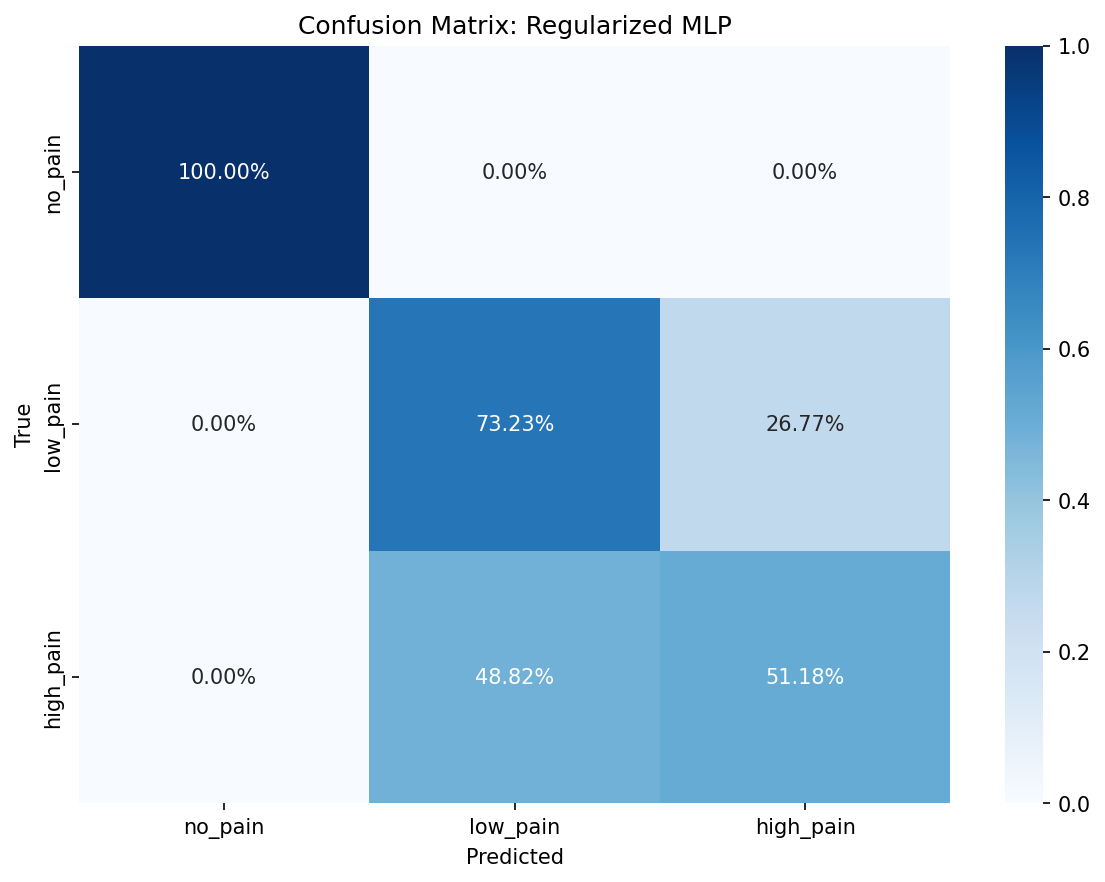
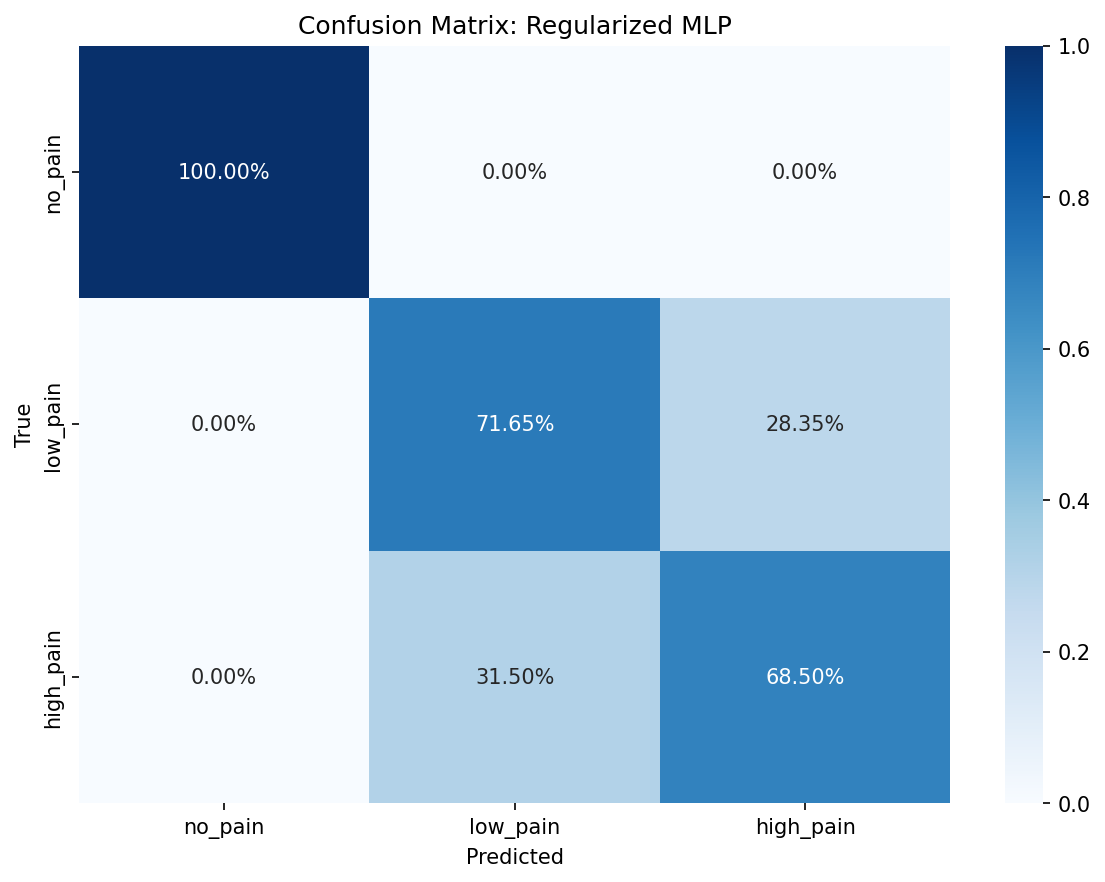
Phase 2 results + code

Changed region(s): [[0.3077, 0.6122, 0.8615, 0.9184], [0.7077, 0.4592, 0.7692, 0.4898], [0.4308, 0.4592, 0.4923, 0.4898]]

diff --git a/src/phase2_neural_experiments.py b/src/phase2_neural_experiments.py
@@ -1,16 +1,20 @@
 #!/usr/bin/env python3
 """
-Phase 2: Neural Network Exploration
+Phase 6 Step 2: Neural Network Exploration (BASELINE-ONLY)
+
+MIRRORS Phase 2 but with baseline-only labeling:
+- Class 0: no_pain (baseline ONLY - rest segments EXCLUDED)
+- Class 1: low_pain
+- Class 2: high_pain
 
 Explores deep learning architectures (MLP variants) to capture complex feature
 interactions. Uses PyTorch with Optuna hyperparameter optimization.
 
-Triggered because Phase 1 best ensemble (74.5%) < 85% threshold.
-
 Author: Claude (AI Assistant)
-Date: 2026-01-14
+Date: 2026-01-15
 """
 
+import gc
 import os
 import re
 import json
@@ -61,17 +65,16 @@ FEATURE_COLS = ['pe', 'comp', 'fisher_shannon', 'fisher_info',
 # Paper 1 baseline
 PAPER1_BASELINE = 0.794
 
-# Paths
-PROJECT_ROOT = Path(__file__).parent.parent
+# Paths - navigate up from src/phase6/ to project root
+PROJECT_ROOT = Path(__file__).parent.parent.parent
 DATA_DIR = PROJECT_ROOT / 'data' / 'features'
-RESULTS_DIR = PROJECT_ROOT / 'results' / 'phase2_neuralnets'
+RESULTS_DIR = PROJECT_ROOT / 'results' / 'phase6_step2_neuralnets'
 
-# Class mapping
+# Class mapping - BASELINE ONLY (rest segments EXCLUDED)
 CLASS_MAPPING = {
-    'baseline': 0,
-    'rest': 0,
-    'low': 1,
-    'high': 2
+    'baseline': 0,  # no_pain (ONLY baseline, not rest)
+    'low': 1,       # low_pain
+    'high': 2       # high_pain
 }
 CLASS_NAMES = ['no_pain', 'low_pain', 'high_pain']
 N_CLASSES = 3
@@ -83,6 +86,52 @@ MAX_EPOCHS = 300  # Increased for deeper training
 EARLY_STOP_PATIENCE = 20  # More patience for convergence
 DEVICE = torch.device('cuda' if torch.cuda.is_available() else
                       'mps' if torch.backends.mps.is_available() else 'cpu')
+
+
+# =============================================================================
+# Checkpointing and Memory Management
+# =============================================================================
+
+def clear_memory():
+    """Clear all caches and force garbage collection to prevent memory crashes."""
+    gc.collect()
+    if torch.cuda.is_available():
+        torch.cuda.empty_cache()
+        torch.cuda.synchronize()
+    gc.collect()
+
+
+def load_checkpoint(results_dir):
+    """Load checkpoint if exists, return completed architectures and results."""
+    checkpoint_file = results_dir / 'checkpoint.json'
+    if checkpoint_file.exists():
+        with open(checkpoint_file, 'r') as f:
+            checkpoint = json.load(f)
+        print(f'  Loaded checkpoint: {len(checkpoint["completed"])} architectures completed')
+        return checkpoint
+    return {'completed': [], 'results': {}}
+
+
+def save_checkpoint(results_dir, completed, results):
+    """Save checkpoint after each architecture completes."""
+    # Convert results to serializable format (remove non-serializable objects)
+    serializable_results = {}
+    for name, data in results.items():
+        serializable_results[name] = {
+            'best_params': data.get('best_params', {}),
+            'metrics': {k: v for k, v in data.get('metrics', {}).items()
+                       if k not in ['confusion_matrix', 'y_true', 'y_pred']},
+        }
+
+    checkpoint = {
+        'timestamp': datetime.now().isoformat(),
+        'completed': completed,
+        'results': serializable_results
+    }
+    checkpoint_file = results_dir / 'checkpoint.json'
+    with open(checkpoint_file, 'w') as f:
+        json.dump(checkpoint, f, indent=2)
+    print(f'    [CHECKPOINT SAVED] {len(completed)} architectures completed')
 
 
 # =============================================================================
@@ -125,6 +174,12 @@ def load_all_data() -> pd.DataFrame:
         (combined['dimension'] == BEST_DIMENSION) &
         (combined['tau'] == BEST_TAU)
     ].copy()
+
+    # PHASE 6 KEY DIFFERENCE: Exclude rest segments entirely
+    n_before = len(combined)
+    combined = combined[combined['state'] != 'rest'].copy()
+    n_after = len(combined)
+    print(f"  [PHASE 6] Excluded {n_before - n_after} rest segments")
 
     # Extract subject IDs
     combined['subject_id'] = combined['segment_id'].apply(extract_subject_id)
@@ -899,58 +954,87 @@ def main():
         'Regularized MLP': (create_regularized_mlp_objective, 'RegularizedMLP'),
     }
 
-    # Results storage
+    # Load checkpoint (resume capability)
+    checkpoint = load_checkpoint(RESULTS_DIR)
+    completed_archs = set(checkpoint['completed'])
     all_results = {}
 
-    # Train each architecture
+    if completed_archs:
+        print(f'  Resuming from checkpoint: {len(completed_archs)} architectures already done')
+
+    failed_archs = []
+
+    # Train each architecture with checkpointing
     for arch_name, (objective_fn, model_class) in architectures.items():
+        # Skip already completed architectures
+        if arch_name in completed_archs:
+            print(f"\n[SKIPPED] {arch_name} - already completed")
+            continue
+
         print(f"\n{'='*60}")
         print(f"Optimizing: {arch_name}")
         print(f"{'='*60}")
 
-        # Create Optuna study
-        study = optuna.create_study(direction='maximize',
-                                   sampler=optuna.samplers.TPESampler(seed=RANDOM_SEED))
-        objective = objective_fn(X_train, y_train, input_dim)
+        # Clear memory before architecture
+        clear_memory()
 
-        study.optimize(objective, n_trials=N_OPTUNA_TRIALS, show_progress_bar=True)
+        try:
+            # Create Optuna study
+            study = optuna.create_study(direction='maximize',
+                                       sampler=optuna.samplers.TPESampler(seed=RANDOM_SEED))
+            objective = objective_fn(X_train, y_train, input_dim)
 
-        print(f"\nBest trial: {study.best_trial.value:.4f}")
-        print(f"Best params: {study.best_trial.params}")
+            study.optimize(objective, n_trials=N_OPTUNA_TRIALS, show_progress_bar=True)
 
-        # Train final model with best params
-        best_params = study.best_trial.params.copy()
-        best_params['input_dim'] = input_dim
+            print(f"\nBest trial: {study.best_trial.value:.4f}")
+            print(f"Best params: {study.best_trial.params}")
 
-        print(f"\nTraining final {arch_name} model...")
-        model, metrics, train_losses, val_accs = train_final_model(
-            model_class, best_params, X_train, y_train, X_test, y_test
-        )
+            # Train final model with best params
+            best_params = study.best_trial.params.copy()
+            best_params['input_dim'] = input_dim
 
-        print(f"Test Balanced Accuracy: {metrics['balanced_accuracy']:.4f}")
+            print(f"\nTraining final {arch_name} model...")
+            model, metrics, train_losses, val_accs = train_final_model(
+                model_class, best_params, X_train, y_train, X_test, y_test
+            )
 
-        # Save results
-        all_results[arch_name] = {
-            'model': model,
-            'metrics': metrics,
-            'best_params': best_params,
-            'train_losses': train_losses,
-            'val_accs': val_accs,
-            'study': study
-        }
+            print(f"Test Balanced Accuracy: {metrics['balanced_accuracy']:.4f}")
 
-        # Save model
-        model_path = RESULTS_DIR / 'models' / f'{model_class.lower()}_best.pth'
-        torch.save(model.state_dict(), model_path)
+            # Save results
+            all_results[arch_name] = {
+                'model': model,
+                'metrics': metrics,
+                'best_params': best_params,
+                'train_losses': train_losses,
+                'val_accs': val_accs,
+                'study': study
+            }
 
-        # Plot confusion matrix
-        plot_confusion_matrix(
-            metrics['y_true'], metrics['y_pred'], arch_name,
-            RESULTS_DIR / 'confusion_matrices' / f'{model_class.lower()}_confusion_matrix.png'
-        )
+            # Save model
+            model_path = RESULTS_DIR / 'models' / f'{model_class.lower()}_best.pth'
+            torch.save(model.state_dict(), model_path)
 
-        # Plot training curves
-        plot_training_curves(train_losses, val_accs, arch_name, RESULTS_DIR / 'training_curves')
+            # Plot confusion matrix
+            plot_confusion_matrix(
+                metrics['y_true'], metrics['y_pred'], arch_name,
+                RESULTS_DIR / 'confusion_matrices' / f'{model_class.lower()}_confusion_matrix.png'
+            )
+
+            # Plot training curves
+            plot_training_curves(train_losses, val_accs, arch_name, RESULTS_DIR / 'training_curves')
+
+            # Mark as completed and save checkpoint
+            completed_archs.add(arch_name)
+            save_checkpoint(RESULTS_DIR, list(completed_archs), all_results)
+
+        except Exception as e:
+            print(f'    [ERROR] {arch_name} failed: {str(e)}')
+            failed_archs.append({'arch': arch_name, 'error': str(e), 'timestamp': datetime.now().isoformat()})
+            with open(RESULTS_DIR / 'failed_architectures.json', 'w') as f:
+                json.dump(failed_archs, f, indent=2)
+
+        # Clear memory after architecture
+        clear_memory()
 
     # Generate leaderboards
     print("\n" + "="*70)

diff --git a/results/phase2_neuralnets/phase2_report.md b/results/phase2_neuralnets/phase2_report.md
@@ -1,17 +1,17 @@
 # Phase 2: Neural Network Exploration Results
 
-**Generated:** 2026-01-15 06:48
+**Generated:** 2026-01-16 04:25
 
 ---
 
-## Summary
+## Executive Summary
 
 | Metric | Value |
 |--------|-------|
-| **Best Neural Net** | Simple MLP |
-| **Best NN Balanced Accuracy** | 76.38% |
-| **Best Overall Model** | Simple MLP |
-| **Best Overall Balanced Acc** | 76.38% |
+| **Best Neural Net** | Medium MLP |
+| **Best NN Balanced Accuracy** | 80.05% |
+| **Best Overall Model** | Medium MLP |
+| **Best Overall Balanced Acc** | 80.05% |
 | **Paper 1 Baseline** | 79.4% |
 
 ---
@@ -36,10 +36,10 @@ Four MLP architectures were explored:
 
 | Rank | Architecture | Balanced Acc | Accuracy | F1 | No Pain | Low Pain | High Pain |
 |------|--------------|--------------|----------|-----|---------|----------|-----------|
-| 1 | Simple MLP | 76.38% | 82.32% | 0.813 | 100.00% | 87.40% | 41.73% |
-| 2 | Deep MLP | 75.85% | 81.93% | 0.819 | 100.00% | 66.93% | 60.63% |
-| 3 | Medium MLP | 75.07% | 81.34% | 0.811 | 100.00% | 73.23% | 51.97% |
-| 4 | Regularized MLP | 74.80% | 81.14% | 0.809 | 100.00% | 73.23% | 51.18% |
+| 1 | Medium MLP | 80.05% | 71.32% | 0.713 | 100.00% | 66.93% | 73.23% |
+| 2 | Regularized MLP | 80.05% | 71.32% | 0.713 | 100.00% | 71.65% | 68.50% |
+| 3 | Simple MLP | 79.79% | 70.94% | 0.709 | 100.00% | 66.93% | 72.44% |
+| 4 | Deep MLP | 79.00% | 69.81% | 0.697 | 100.00% | 61.42% | 75.59% |
 
 
 ---
@@ -48,11 +48,11 @@ Four MLP architectures were explored:
 
 | Rank | Model | Type | Balanced Acc | Accuracy |
 |------|-------|------|--------------|----------|
-| 1 | Simple MLP | neural_net | 76.38% | 82.32% |
-| 2 | Deep MLP | neural_net | 75.85% | 81.93% |
-| 3 | LightGBM | ensemble | 75.59% | 81.73% |
-| 4 | Medium MLP | neural_net | 75.07% | 81.34% |
-| 5 | Regularized MLP | neural_net | 74.80% | 81.14% |
+| 1 | Medium MLP | neural_net | 80.05% | 71.32% |
+| 2 | Regularized MLP | neural_net | 80.05% | 71.32% |
+| 3 | Simple MLP | neural_net | 79.79% | 70.94% |
+| 4 | Deep MLP | neural_net | 79.00% | 69.81% |
+| 5 | LightGBM | ensemble | 75.59% | 81.73% |
 | 6 | Stacked (RF+XGB+LGB) | ensemble | 72.97% | 79.76% |
 | 7 | XGBoost | ensemble | 72.70% | 79.57% |
 | 8 | Random Forest | ensemble | 72.70% | 79.57% |
@@ -65,11 +65,11 @@ Four MLP architectures were explored:
 
 ### Neural Net vs Ensemble Comparison
 
-**Neural networks improved by 0.79% over best ensemble!**
+**Neural networks improved by 4.46% over best ensemble!**
 
 ### Key Observations
 
-1. **Architecture Impact:** The Simple MLP architecture performed best, suggesting that simpler models generalize better on this feature space.
+1. **Architecture Impact:** The Medium MLP architecture performed best, suggesting a good balance between capacity and regularization.
 
 2. **Pain Discrimination Challenge:** All models struggle most with distinguishing
    low pain from high pain states, consistent with Phase 1 ensemble findings.
@@ -84,12 +84,12 @@ Four MLP architectures were explored:
 ### Simple MLP
 ```json
 {
-  "layer1": 512,
-  "layer2": 32,
+  "layer1": 64,
+  "layer2": 128,
   "dropout": 0.3,
-  "lr": 0.005,
-  "batch_size": 16,
-  "activation": "elu",
+  "lr": 0.001,
+  "batch_size": 32,
+  "activation": "relu",
   "input_dim": 32
 }
 ```
@@ -97,12 +97,12 @@ Four MLP architectures were explored:
 ### Medium MLP
 ```json
 {
-  "layer1": 128,
+  "layer1": 512,
   "layer2": 256,
   "layer3": 128,
   "dropout": 0.2,
   "lr": 0.001,
-  "batch_size": 16,
+  "batch_size": 32,
   "activation": "elu",
   "input_dim": 32
 }
@@ -111,14 +111,14 @@ Four MLP architectures were explored:
 ### Deep MLP
 ```json
 {
-  "layer1": 256,
-  "layer2": 128,
+  "layer1": 512,
+  "layer2": 256,
   "layer3": 64,
-  "layer4": 64,
-  "dropout": 0.5,
+  "layer4": 32,
+  "dropout": 0.3,
   "lr": 0.001,
   "batch_size": 16,
-  "activation": "elu",
+  "activation": "relu",
   "input_dim": 32
 }
 ```
@@ -126,11 +126,11 @@ Four MLP architectures were explored:
 ### Regularized MLP
 ```json
 {
-  "layer1": 512,
-  "layer2": 128,
+  "layer1": 256,
+  "layer2": 256,
   "layer3": 64,
   "dropout": 0.4,
-  "lr": 0.0001,
+  "lr": 0.0005,
   "batch_size": 16,
   "activation": "elu",
   "l2_reg": 0.1,
@@ -144,11 +144,11 @@ Four MLP architectures were explored:
 
 Based on combined results, recommend validating these models with LOSO:
 
-1. **Simple MLP** (neural_net): 76.38%
-2. **Deep MLP** (neural_net): 75.85%
-3. **LightGBM** (ensemble): 75.59%
-4. **Medium MLP** (neural_net): 75.07%
-5. **Regularized MLP** (neural_net): 74.80%
+1. **Medium MLP** (neural_net): 80.05%
+2. **Regularized MLP** (neural_net): 80.05%
+3. **Simple MLP** (neural_net): 79.79%
+4. **Deep MLP** (neural_net): 79.00%
+5. **LightGBM** (ensemble): 75.59%
 
 
 ---
